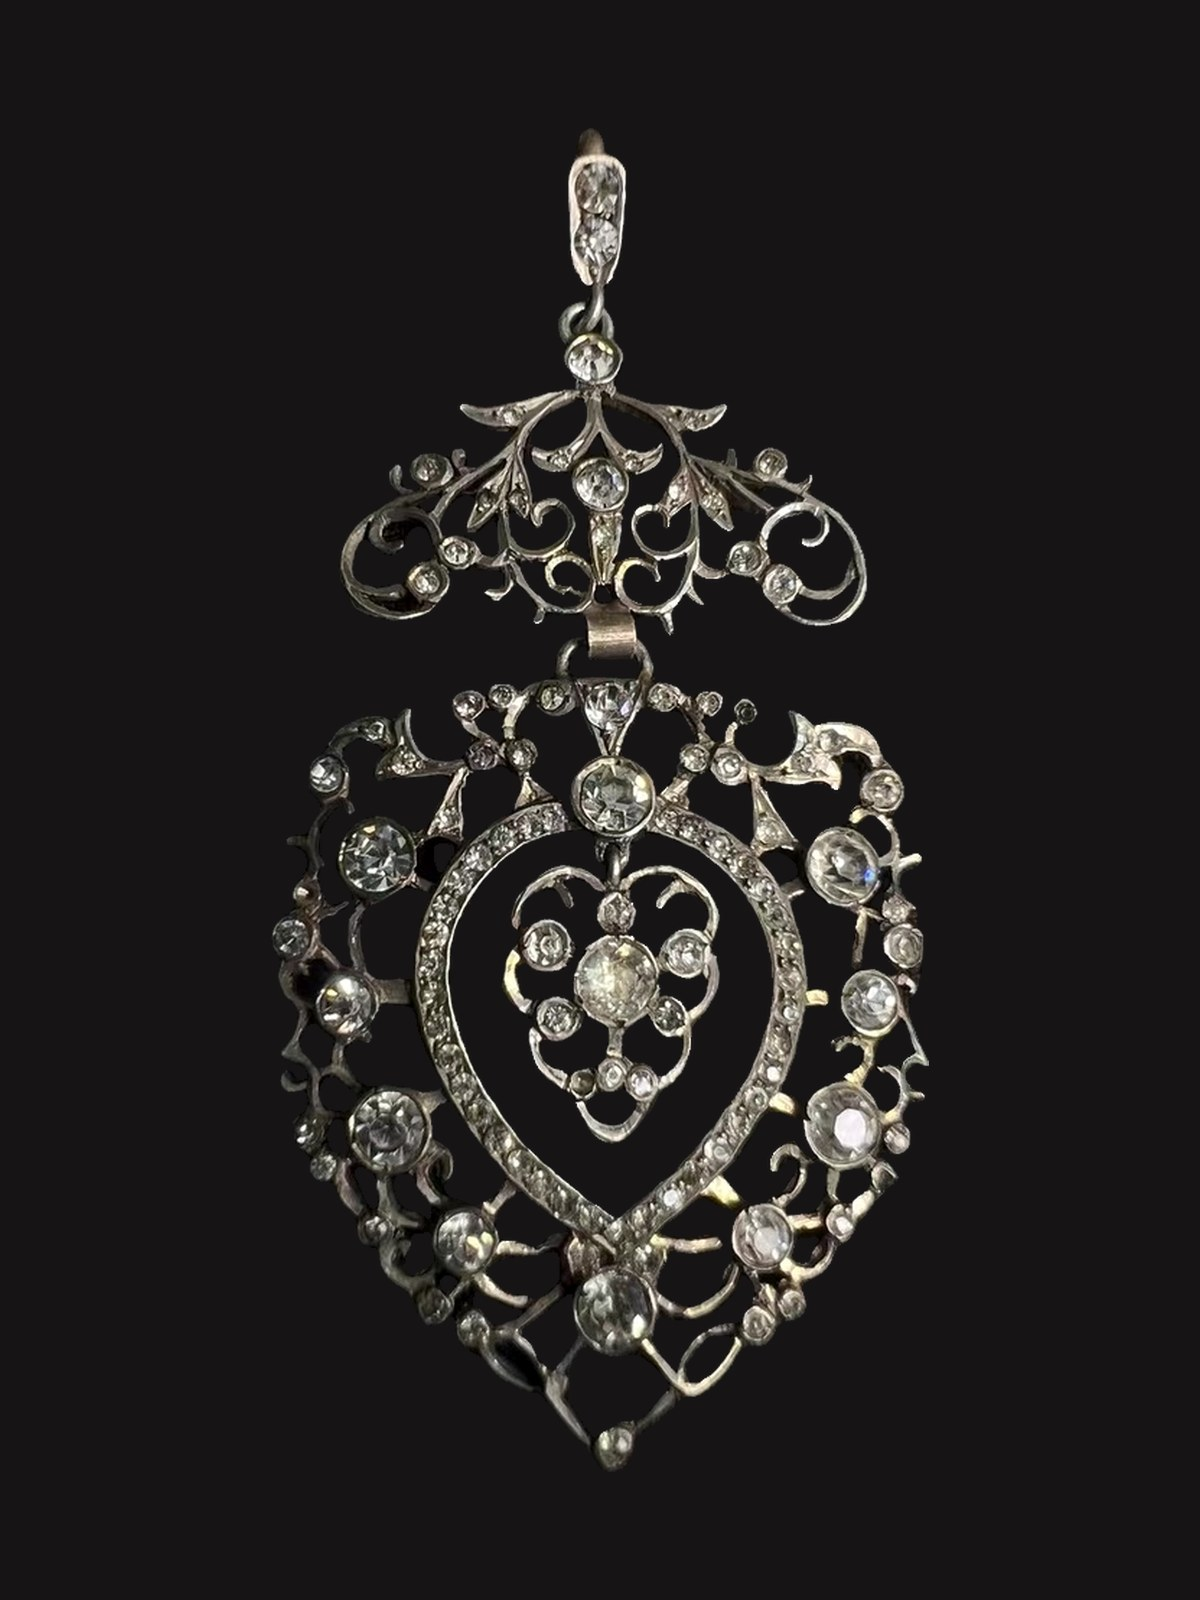
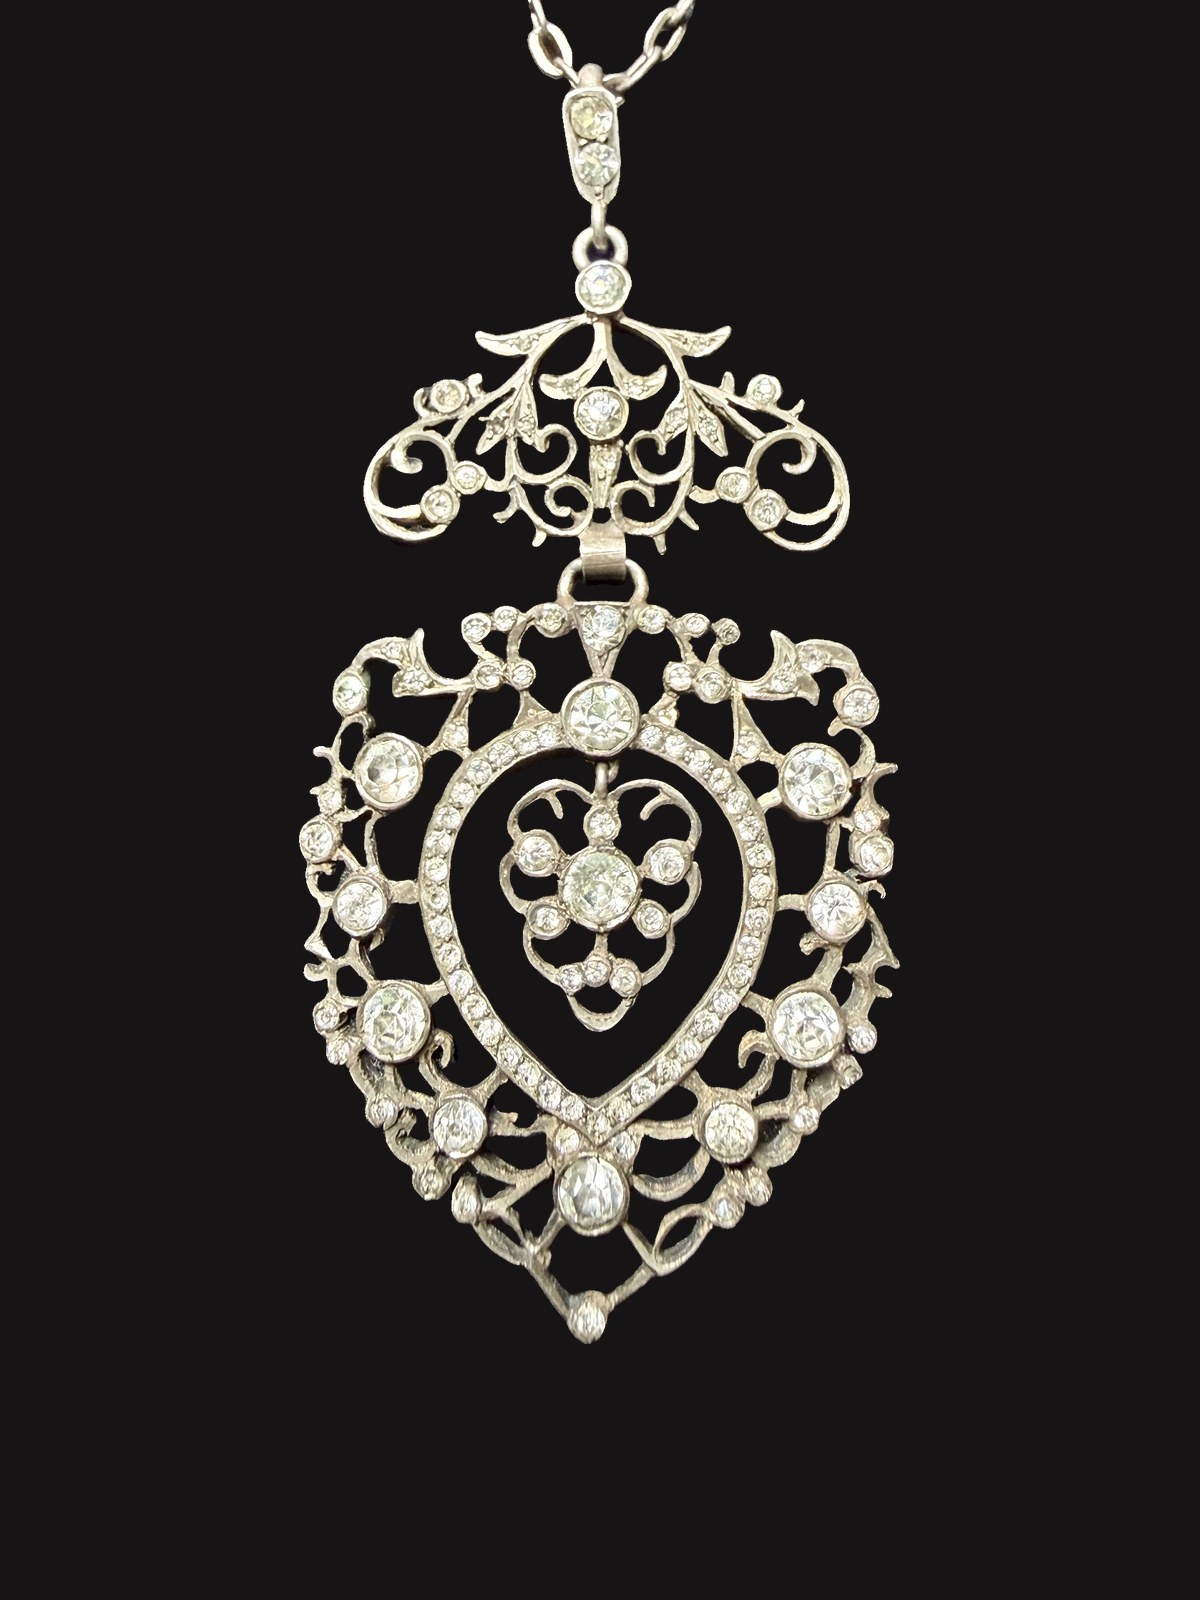
t030 封面换为策展人自摄照，保持原片亮度；著录删去误判的缺石
Claude-Session: https://claude.ai/code/session_0146WwfpqSoST3wS5kAsYEcA

Changed region(s): [[0.2158, 0.0, 0.7708, 0.9375]]

diff --git a/assets/data.js b/assets/data.js
@@ -37,7 +37,7 @@ const collection = {
     { id:"t023", title:"香奈儿太阳勋章项链", year:"1983", origin:"法国", type:"珠宝", image:"/images/treasures/t023_standard.jpg", description:"香奈儿制，法国，1983年。铜镀金吊坠取勋章形制：中心双C置于盾形纹章内，双头鹰展翅环抱，外环十四道宽窄相间的尖芒，芒间刻波纹；背面锤击纹，署品牌标记与年份。顶接圆环，重型绞绳链。吊坠直径4.4厘米，链长89厘米，113克。", articleLink:"c012", forSale:false },
     { id:"t024", title:"纹章累丝手链", year:"约1950", origin:"葡萄牙", type:"珠宝", image:"/images/treasures/t024_standard.jpg", description:"推测为葡萄牙波尔图产。六枚穹面牌片，每片中心嵌珐琅徽记，四周填波尔图传统累丝，作四叶形围绕徽记。纹样牌片交替：三枚葡萄牙基督骑士团十字，三枚王冠葡萄牙国徽。以跳环串联、弹簧扣闭合。835银镀金，19×2.5厘米，32克。", forSale:false },
     { id:"t025", title:"仿慈悲勋章项链", year:"约1955", origin:"美国", type:"珠宝", image:"/images/treasures/t025_standard.jpg", description:"Coro制。吊坠取法奥斯曼慈悲勋章。五角星臂面刻放射细纹，尖端缀小球，臂间缀镂空涡卷，中心红珐琅圆牌覆苏丹图拉式花押，外环白珐琅带间以绿珐琅饰带仿奥斯曼铭文，下铸回历1295年，即1878年。顶接圆环，重型绞绳双链承之。直径6.2厘米。72克。", forSale:false },
-    { id:"t030", title:"诺曼底心形吊坠", year:"约1880", origin:"法国", type:"珠宝", image:"/images/treasures/t030_standard.jpg", description:"诺曼底地方首饰。可开合吊环镶两粒仿钻，经小环与包镶单石接对称镂空卷草饰，以管环铰接心形主体。外框手工锯镂卷草，大中小三级仿钻均为封底包镶；框内一周小粒仿钻勾出心形，心尖下悬可摆动的心形花簇，中心大石环绕八粒小石，左下一粒缺失。银，7.6×3.7厘米，11.3克。", forSale:false },
+    { id:"t030", title:"诺曼底心形吊坠", year:"约1880", origin:"法国", type:"珠宝", image:"/images/treasures/t030_standard.jpg", description:"诺曼底地方首饰。可开合吊环镶两粒仿钻，经小环与包镶单石接对称镂空卷草饰，以管环铰接心形主体。外框手工锯镂卷草，大中小三级仿钻均为封底包镶；框内一周小粒仿钻勾出心形，心尖下悬可摆动的心形花簇，中心大石环绕八粒小石。银，7.6×3.7厘米，11.3克。", forSale:false },
   ],
   chronicles: [
     { id:"c005", group:"craft", title:"礼服的工艺制度剖析", image:"/images/regalia/r006_standard.jpg", image2:"/images/chronicles/c001b.jpg", image3:"/images/chronicles/c001c.jpg", image4:"/images/chronicles/c001d.jpg", imageLayout:"grid4", excerpt:"<strong>工艺</strong><br><br>这件1931年式法国陆军医官大礼服出自巴黎第八区Thorn。彼时该地区是法国军服定制业的核心门牌，客户以军官及外交官为主。面料为中厚挺括礼服毛呢，黑色，织物密度足以支撑直身廓形。单排9粒扣沿前襟垂直排列，扣面以黄铜镀金铸造，浮雕图案为权杖缠蛇外环月桂，赫尔墨斯权杖的医疗变体，每粒扣面均铸有兵种标识。<br><br>领部与袖口以深红丝绒包覆，切割边缘利落，与黑色毛呢的交界处收口无毛边。领片两侧各施一组金线手工刺绣：左侧橄榄枝，右侧蓟花，以管状金属丝构成，密度均匀，九十年后光泽与张力仍在。袖口丝绒之上，两道金色织带横贯，金线规整。内衬有多圈走线分散受力，是法国军服刺绣工艺的标准高输出。<br><br>整件礼服体现了法兰西制服美学的核心逻辑：以裁缝的精度代替装饰的堆砌，将布料、丝绒、金线与金属扣的材料层级压入严格的几何秩序，使礼服获得建筑与雕塑的同时感，它不是被穿着的，它是被构筑的。<br><br><strong>风格与制度含义</strong><br><br>黑色礼服毛呢配深红丝绒，是第三共和国时期法国军医系统礼服的标准配色。同期法国陆军礼服中，作战兵种多用双排扣，医官等技术兵种以单排扣与作战兵种的双排扣区隔。<br><br>9粒权杖缠蛇扣沿前襟从领口延伸至腰部。佩戴者站定，兵种、职级与机构归属即在视线接触中同时完成识别。" },

diff --git a/tools/standardize.py b/tools/standardize.py
@@ -33,11 +33,13 @@ RATIO_TOL = 0.015            # an original within this of RATIO is only resized
 STRIP_COLOUR = {"r015": ((5, 25), 60, 60)}   # tan overcoat under the trench coat
 # Items whose photograph carries a colour cast: the object's average is pulled towards neutral grey.
 NEUTRALIZE = {}                               # id -> strength 0..1
+# Cut-outs kept at the photograph's own tone: the gentle levels stretch is skipped (curator's request for t030).
+KEEP_TONE = {"t030"}
 # Items too close in tone to the warm-white ground are set on their own colour instead.
 BG_OVERRIDE = {"r009": (22, 20, 20), "t029": (22, 20, 20), "t030": (22, 20, 20)}   # pale or silver objects sit on black
 # Pendants whose chain left the photograph at the top edge: the object is set against the top of the canvas so the chain
 # runs off the frame instead of ending in the ground.
-TOP_ALIGN = {"t029"}
+TOP_ALIGN = {"t029", "t030"}
 # Garments photographed on a hanger: the hook above the shoulders is removed.
 REMOVE_HANGER = {"r009", "r012", "r014"}
 # Garments photographed on a dress form: the pole and base below the form are removed, the form stays.
@@ -275,7 +277,7 @@ def cut_out(im, iid, session):
     bbox = cut.getbbox()
     if not bbox: raise RuntimeError(f"{iid}: no object found")
     sub = cut.crop(bbox); alpha = sub.split()[3]
-    rgb = stretch(sub.convert("RGB"), alpha)
+    rgb = sub.convert("RGB") if iid in KEEP_TONE else stretch(sub.convert("RGB"), alpha)
     if iid in NEUTRALIZE: rgb = neutralize(rgb, alpha, NEUTRALIZE[iid])
     return Image.merge("RGBA", (*rgb.split(), alpha))
 

diff --git a/_notes/站点手册.md b/_notes/站点手册.md
@@ -218,8 +218,8 @@
 
 - t028 与 c016 的照片已于 2026 年 10 月到货，全部抠图置浅灰米底，补足 3:4（曾试 3:2 横图，策展人定仍用 3:4）。同月策展人另交一组六张替换首批：封面为链条 U 形下垂、两针朝上的正面照；札记 grid6 两列三行，第一行为整链正面与背面，以下依次为学术棕榈、农业功绩勋章、互助会奖章、突尼斯荣耀勋章的正面特写（c016b 背面，c016c–c016f 特写），左上、右上、左下、右下。四张特写原照顶端裁到吊环，抠图后吊环顶端为直边。首批原图存 `_archive/treasures/t028_v1.jpg` 与 `_archive/chronicles/c016b_v1.jpg`–`c016f_v1.jpg`。整链正面与背面随后换为策展人调亮的版本，前一版存 `_archive/treasures/t028_v2.jpg` 与 `_archive/chronicles/c016b_v2.jpg`。封面其后再换一次策展人新交的正面照，上一版存 `_archive/treasures/t028_v3.jpg`。学术棕榈特写 c016c 随后换为策展人重拍的近照（1512×2016，三张候选中对焦最完整的一张，花枝下半部亦清晰），按策展人指定调整后作原图：亮度 ×1.12 再 ×1.30，对比度以中灰 128 为轴加 10%（不以全图均值为轴，否则浅色背景会把暗色器物压暗）；未调整的相机原片存 `_archive/chronicles/c016c_raw.jpg`，上一版存 `_archive/chronicles/c016c_v2.jpg`。新照吊环完整入画，顶端仅链上跳环出画。组图其后增 c016g：互助会奖章与农业功绩勋章的背面并列（策展人摄，两张候选中取铭文较清晰的一张，「MÉRITE AGRICOLE 1883」与「劳动与社会保障部」环铭均可读），置于组图末位。原片上方的狐尾链斜穿画面，抠图前以修补（inpainting）抹去，只留两环顶端的跳环残段，与其余特写顶端处理一致；之后亮度 ×1.10、对比度以中灰为轴加 10%。未照搬 c016c 的 ×1.456：本张原片较亮，那样会使背景发白而被当成器物抠入、白珐琅大片过曝。抠图时星形上臂的白珐琅因与底色过近被模型丢掉，`standardize.py` 的 `FILL_HOLE` 以一个种子点把这块封闭区域补回并从原片取色。未处理的相机原片存 `_archive/chronicles/c016g_raw.jpg`。同月按曝光对齐四张正面特写：以章体亮部（第 90 百分位亮度）为准，学术棕榈 165、农业功绩 190 已在合理区间，不动；互助会奖章 c016e 只加对比度 10%，突尼斯荣耀勋章 c016f 亮度 ×1.07 并加对比度 10%（均以中灰为轴），调后为 173 与 163。未照搬学术棕榈的 ×1.456：那样农业功绩白珐琅过曝约 14%、互助会约 10%，组图反而更不齐。学术棕榈在组图中仍显最暗，原因是深紫珐琅、氧化银面与玫瑰切钻本身吸光，不是曝光不足。调整前的原图存 `_archive/chronicles/c016e_v2.jpg`、`c016f_v2.jpg`。随后补入柬埔寨莫尼萨拉蓬特写 c016h（策展人摄），按链上次序置于突尼斯之后、两章背面之前，组图共八张，桌面两列四行齐整。原片顶端露出狐尾链，以 `CROP_TOP` 裁去顶部 4%，只留跳环残段；只加对比度 10%（以中灰为轴），亮度不动：此章为氧化银，抠图流程的温和归一已把亮部拉到与金色吊环一致，再提亮只增加过曝。未处理的相机原片存 `_archive/chronicles/c016h_raw.jpg`。农业功绩正面特写 c016d 其后换为策展人重拍的一张（更清晰，吊环完整入画，与其余特写一致），只加对比度 10%；抠图时白珐琅六臂几乎全被模型当作底色丢掉（旧版亦缺两臂），以 `FILL_HOLE` 的六个种子点补回，星臂与花环之间的真镂空仍透底。上一版存 `_archive/chronicles/c016d_v2.jpg`，相机原片存 `c016d_raw.jpg`。
 - 全站图片亮度与对比度校准（2026 年 10 月）：对网页实际可见的 92 张图逐张测量，抠图件取器物本身、实拍件取整幅的平均亮度与亮度标准差（对比度），按浅灰米抠图、黑底、实拍底三组各自比较。只处理偏离组均值约 1.5 个标准差以上、且偏离不由材质本身造成的图，且只往均值挪一小段：灰色与深色礼服 r002、r006、r015 加对比度（原片 ×1.3，经抠图流程归一后实际约 +5–15%），深色礼服 r005、r007、r012 以 gamma 0.85–0.9 提亮中间调；实拍细部 c001c、c003d（深色呢料）提亮中间调，c003c（灰呢纽扣）、c009b（珍珠刺绣）、c015c（Spink 内衬）加对比度 15%，后两者略压亮度。白缎、黑丝绒、金器等因材质而偏亮或偏暗者不动（如 t026、c013c、c013f、r009、c014d、c017d）；c013h 的 3:2 内衬图为另行裁正的派生图，未纳入。c008d 奥地利勋章证书另作处理：按各行文字的倾斜（自上而下约 0.6° 增至 2°）逐行拉平透视，裁去四周约 5% 后保持 3:4，校平纸面光照不均，纸色定在暖白（约 229/221/201），文字压深。原图仅 480×640，仍在建议重拍之列。以上各图调整前的原片均存 `_archive/<分类>/<编号>_v1.jpg`。
-- t030 诺曼底心形吊坠（2026 年 10 月入馆）：封面暂用卖家正面照（768×1024，黑布底，右下角有平台水印），抠图置黑底 `#161414`（`BG_OVERRIDE`，与 r009、t029 同），水印随背景一并去除。著录据策展人提供的说明并按照片核对：补入吊环下的包镶单石、对称卷草饰与心形花簇的形制，「封底」改为全部石位（背面照可见），删去照片无法确认的「铅玻璃」与「衬箔」，注明花簇左下缺一石。为免拉低灯箱统一图高，著录压到 131 字（全站最长 144 字）。「诺曼底」「约1880」「银」与 11.3 克尚待上手核对：背面心形顶端三角托上有一枚极小冲印，待以放大镜辨读。
-- 建议重拍（原图长边不足 1000 像素）：r012、c002b、c008d、t030（t014 与 c006b 已于 2026 年 10 月重拍）。r014、t025、r009、c002c、c008c、c009b 在 770 至 960 像素之间，有机会再补。
+- t030 诺曼底心形吊坠（2026 年 10 月入馆）：封面首版为卖家正面照（768×1024，有平台水印，存 `_archive/treasures/t030_v1.jpg`），随即换为策展人在黑丝绒上自摄的带链正面照（1512×2016），抠图置黑底 `#161414`（`BG_OVERRIDE`，与 r009、t029 同），链条从顶边出画（`TOP_ALIGN`）；按策展人要求保持原片亮度，跳过抠图流程的色阶拉伸（`KEEP_TONE`），抠图前后器物平均亮度 189 与 187。著录据策展人提供的说明并按照片核对：补入吊环下的包镶单石、对称卷草饰与心形花簇的形制，「封底」改为全部石位（背面照可见），删去照片无法确认的「铅玻璃」与「衬箔」，卖家照中花簇左下一石看似空托，策展人自摄照可见石在，只是较暗，著录已删去「左下一粒缺失」。为免拉低灯箱统一图高，著录压到 131 字（全站最长 144 字）。「诺曼底」「约1880」「银」与 11.3 克尚待上手核对：背面心形顶端三角托上有一枚极小冲印，待以放大镜辨读。
+- 建议重拍（原图长边不足 1000 像素）：r012、c002b、c008d（t014 与 c006b 已于 2026 年 10 月重拍）。r014、t025、r009、c002c、c008c、c009b 在 770 至 960 像素之间，有机会再补。
 - 断代依据（2026 年 10 月核定）：t021 荣誉军团为四共型，正面无「1870」、背面无创设日期，年份写「1951–1962」；t020 弗朗茨·约瑟夫像配战时绶带无剑饰，年份写「1914–1916」；t026 的 1928 年据埃及印记年号「D」，只在札记中说明，灯箱与卡片不写依据。t015 中心花押经与历任贝伊花押对照为穆罕默德八世·拉明的镂空式样：卡片年份保持「约1950」，灯箱著录只写「贝伊签名花押（1943–1957）」，贝伊名与统治期写在札记（2026 年 10 月，策展人决定）。待查：t027 Spink 迁址年份、t014 制作者印记。
 - 著录缺尺寸重量：t002、t017、t020。
 - 札记「参考」段尚未撰写。
